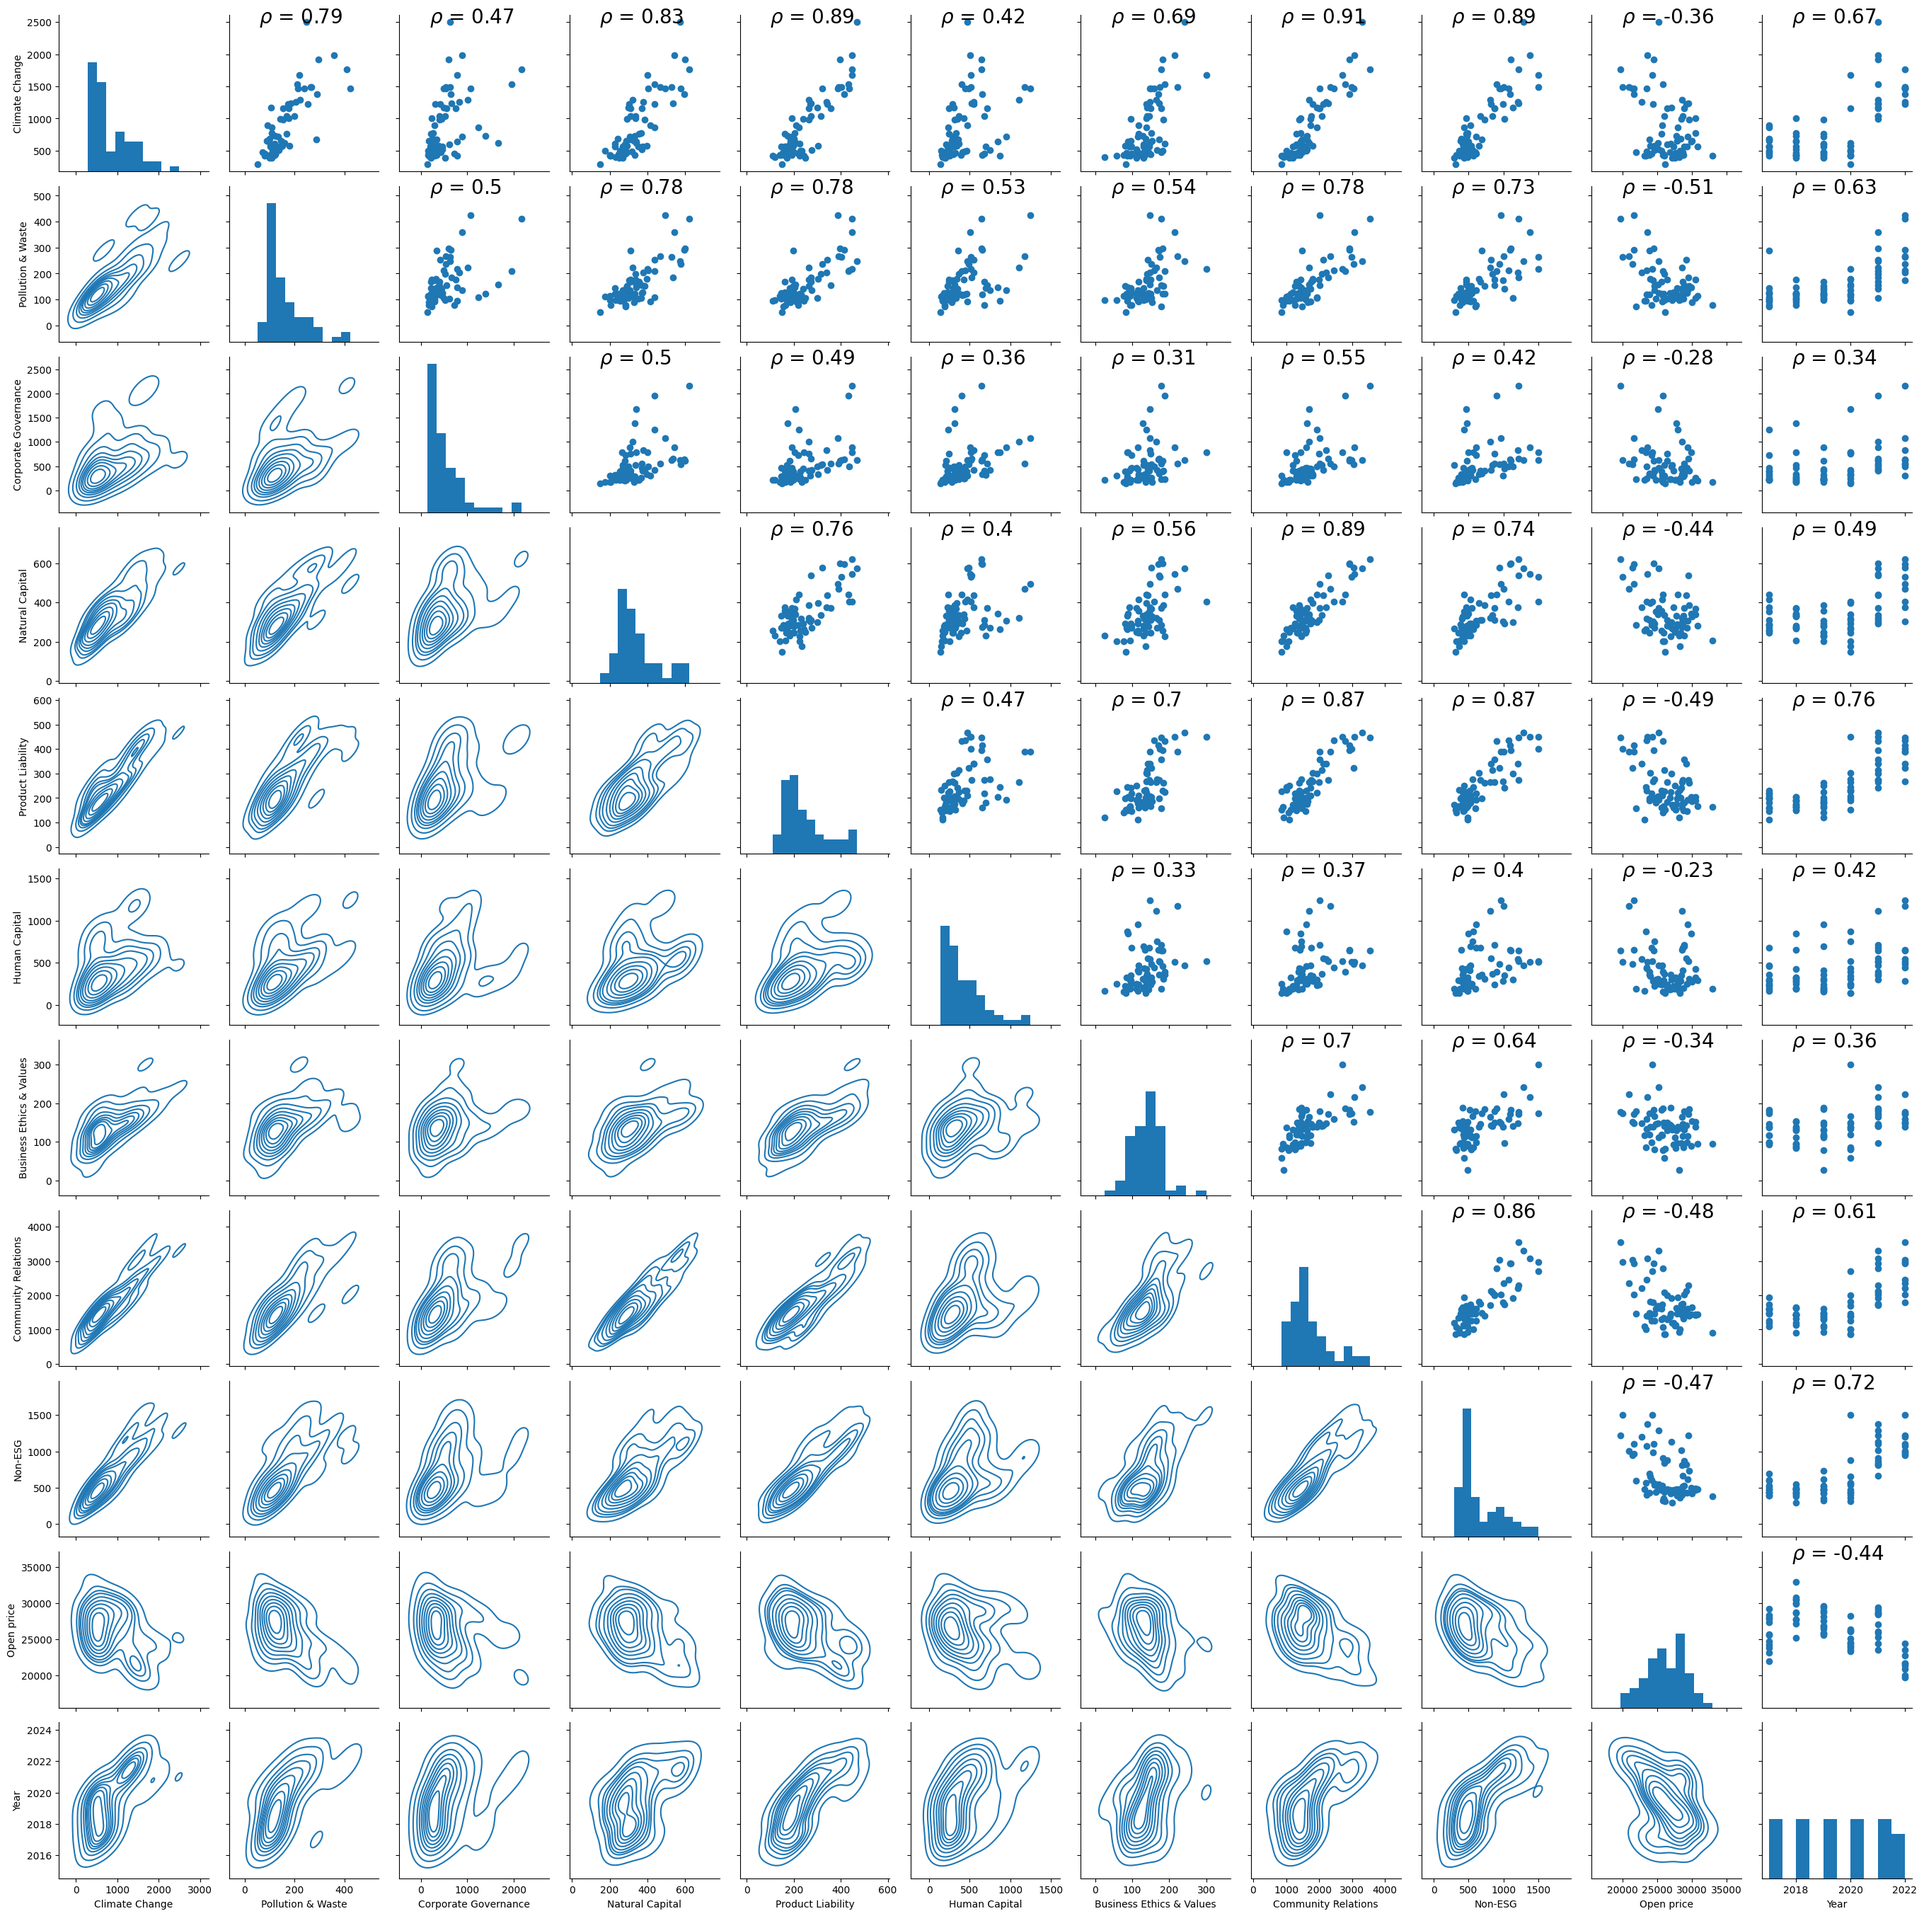
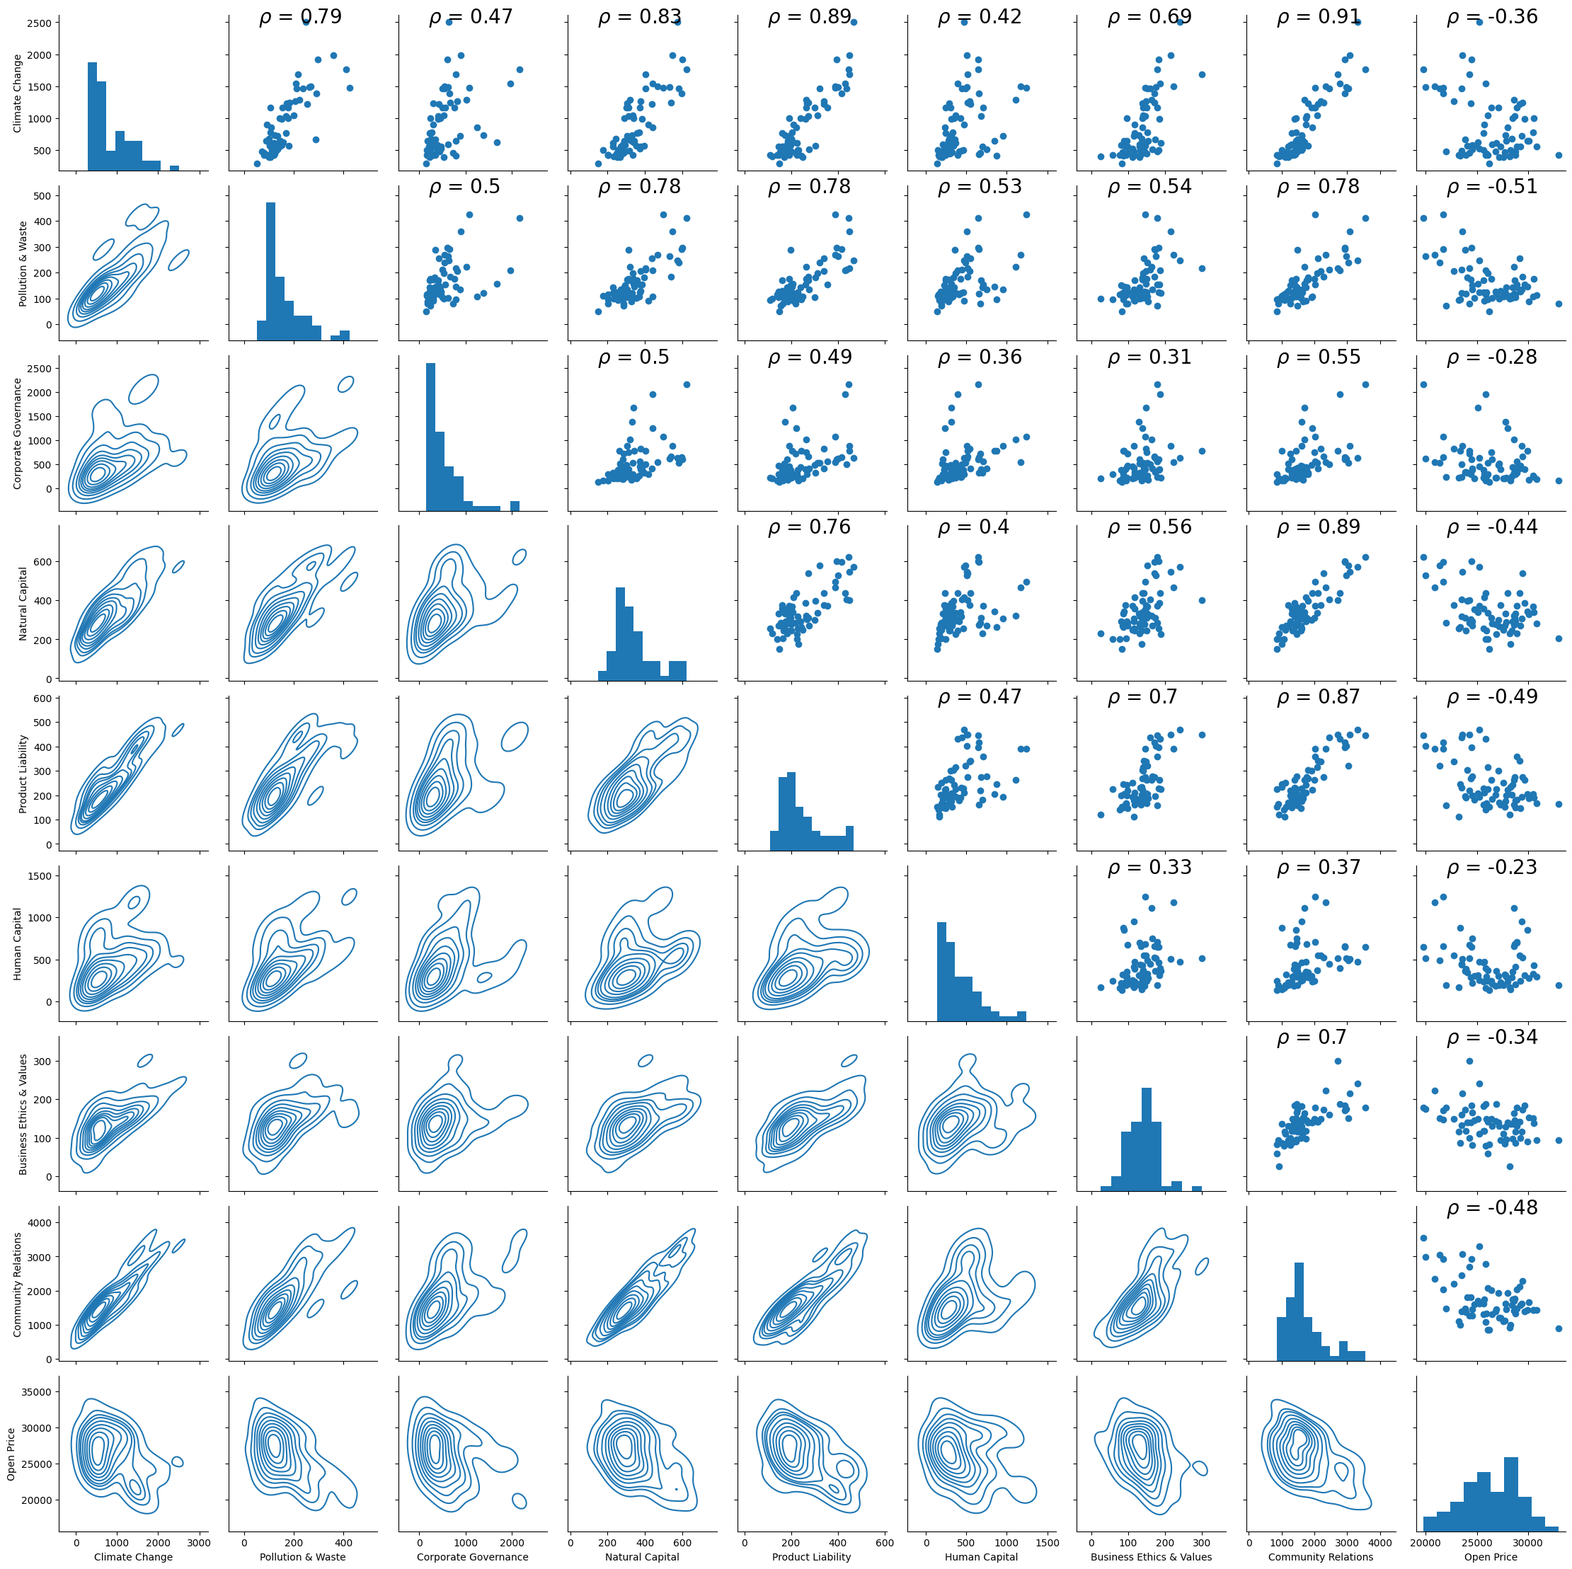
update pairwise plot and bug fixing

diff --git a/multiL.py b/multiL.py
@@ -14,13 +14,13 @@ stat_df['max'] = stat_df.idxmax(axis="columns")
 HSI_df = pd.read_csv("./datas/HSI_monthly.csv")
 #append open price to stat_df
 HSI_df = HSI_df.set_index(stat_df.index)
-stat_df['Open price'] = HSI_df.iloc[:,1].tolist()
+stat_df['Open Price'] = HSI_df.iloc[:,1].tolist()
 
 #1st regression analysis
 x = stat_df[['Climate Change', 'Pollution & Waste', 'Corporate Governance',
        'Natural Capital', 'Product Liability', 'Human Capital',
        'Business Ethics & Values', 'Community Relations']]
-y = stat_df['Open price']
+y = stat_df['Open Price']
 
 # with sklearn
 regr = linear_model.LinearRegression()
@@ -65,7 +65,7 @@ print(print_model)
 print("\n3rd iteration")
 x = stat_df[['Climate Change', 'Pollution & Waste', 'Corporate Governance',
         'Product Liability', 'Human Capital','Community Relations']]
-y = stat_df['Open price']
+y = stat_df['Open Price']
 
 # with sklearn
 regr = linear_model.LinearRegression()
@@ -87,7 +87,7 @@ print(print_model)
 print("\n4th iteration\n")
 x = stat_df[['Climate Change', 'Pollution & Waste', 
         'Product Liability', 'Human Capital','Community Relations']]
-y = stat_df['Open price']
+y = stat_df['Open Price']
 
 # with sklearn
 regr = linear_model.LinearRegression()
@@ -109,7 +109,7 @@ print(print_model)
 print("\n5th iteration\n")
 x = stat_df[['Climate Change', 'Pollution & Waste', 
         'Product Liability', 'Community Relations']]
-y = stat_df['Open price']
+y = stat_df['Open Price']
 
 # with sklearn
 regr = linear_model.LinearRegression()

diff --git a/plotCTnpairwise.py b/plotCTnpairwise.py
@@ -26,7 +26,7 @@ fig.show()
 
 #append open price to stat_df
 HSI_df = HSI_df.set_index(stat_df.index)
-stat_df['Open price'] = HSI_df.iloc[:,1].tolist()
+stat_df['Open Price'] = HSI_df.iloc[:,1].tolist()
 
 #create correlation table
 print(stat_df.corr())
@@ -34,13 +34,18 @@ stat_df.corr().to_csv('./datas/dataset1_correlation_table.csv')
 
 
 #Creating a pairwise plot in Seaborn, colored by year
+"""
 stat_df['Date'] = HSI_df.iloc[:,0].tolist()
 stat_df['Date'] = pd.to_datetime(stat_df['Date'])
 stat_df['Year'] = stat_df['Date'].dt.year
 temp = sns.pairplot(stat_df, hue='Year')
-temp.savefig("./datas/pairwise2.png")
+"""
+temp = sns.pairplot(stat_df, diag_kind="kde")
+temp.map_lower(sns.regplot, robust=True)
+temp.savefig("./datas/pairwise3.png")
 
 #Creating a pairwise plot in Pairgrid
+
 # Function to calculate correlation coefficient between two arrays
 def corr(x, y, **kwargs):
     # Calculate the value
@@ -52,7 +57,9 @@ def corr(x, y, **kwargs):
     ax.annotate(label, xy = (0.2, 0.95), size = 20, xycoords = ax.transAxes)
     
 # Create a pair grid instance
-grid = sns.PairGrid(data= stat_df)
+grid = sns.PairGrid(data= stat_df, vars=['Climate Change', 'Pollution & Waste', 'Corporate Governance',
+       'Natural Capital', 'Product Liability', 'Human Capital',
+       'Business Ethics & Values', 'Community Relations', 'Open Price'])
 
 # Map the plots to the locations
 grid = grid.map_upper(plt.scatter)

diff --git a/multiLsentiment.py b/multiLsentiment.py
@@ -10,7 +10,7 @@ stat_df = pd.read_csv('./datas/dataset1_per_class_ss.csv')
 HSI_df = pd.read_csv("./datas/HSI_monthly.csv")
 #append open price to stat_df
 HSI_df = HSI_df.set_index(stat_df.index)
-stat_df['Open price'] = HSI_df.iloc[:,1].tolist()
+stat_df['Open Price'] = HSI_df.iloc[:,1].tolist()
 print(stat_df)
 
 
